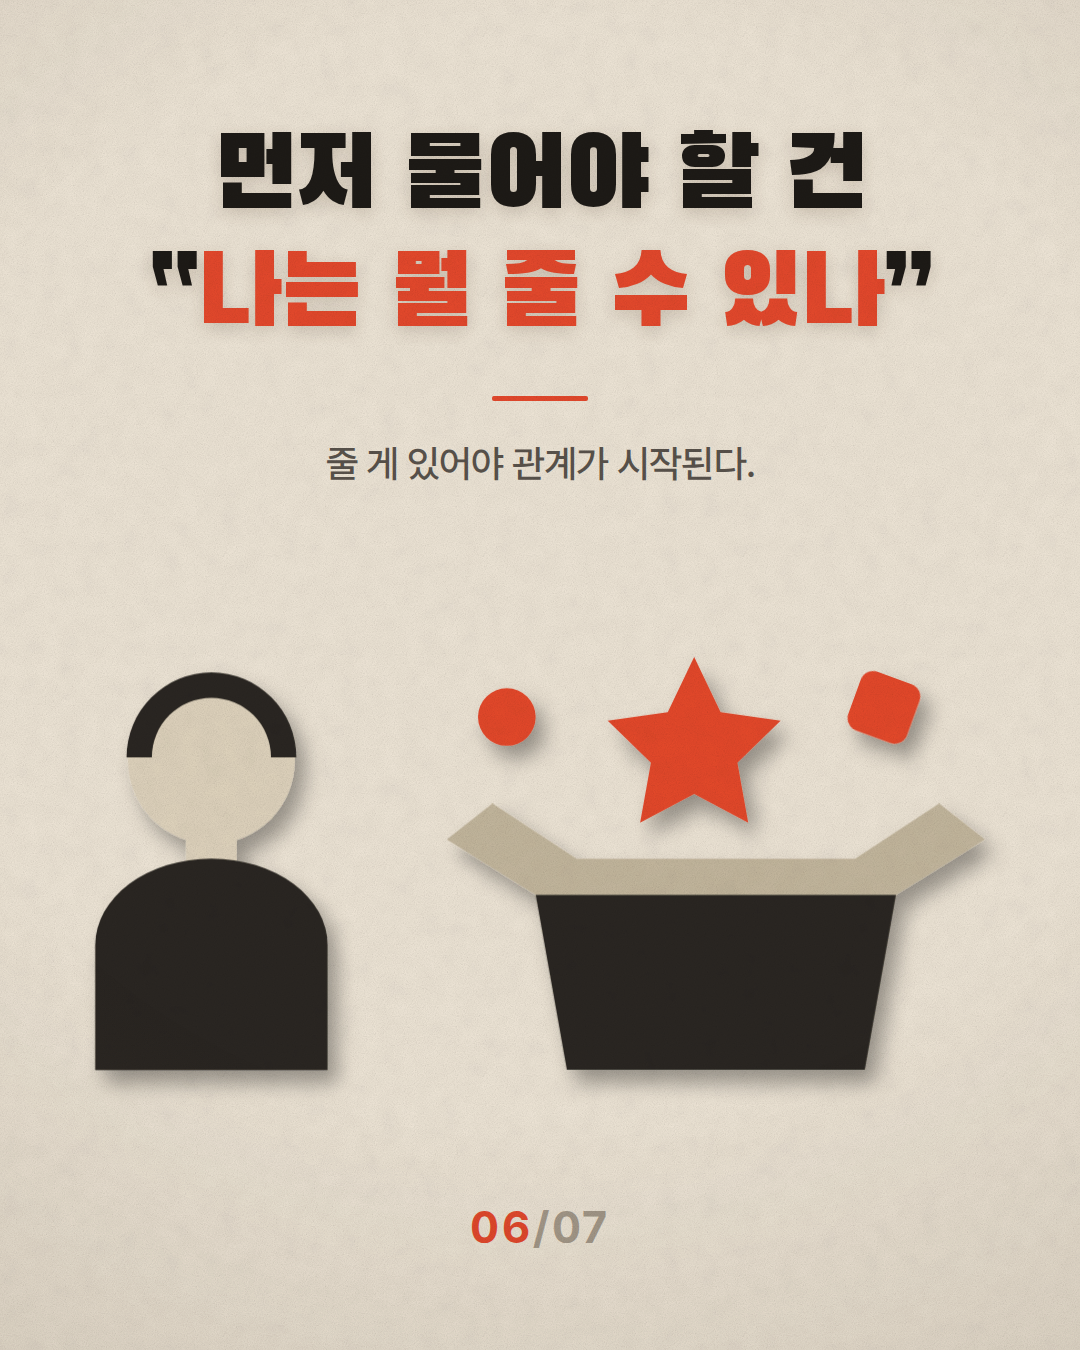
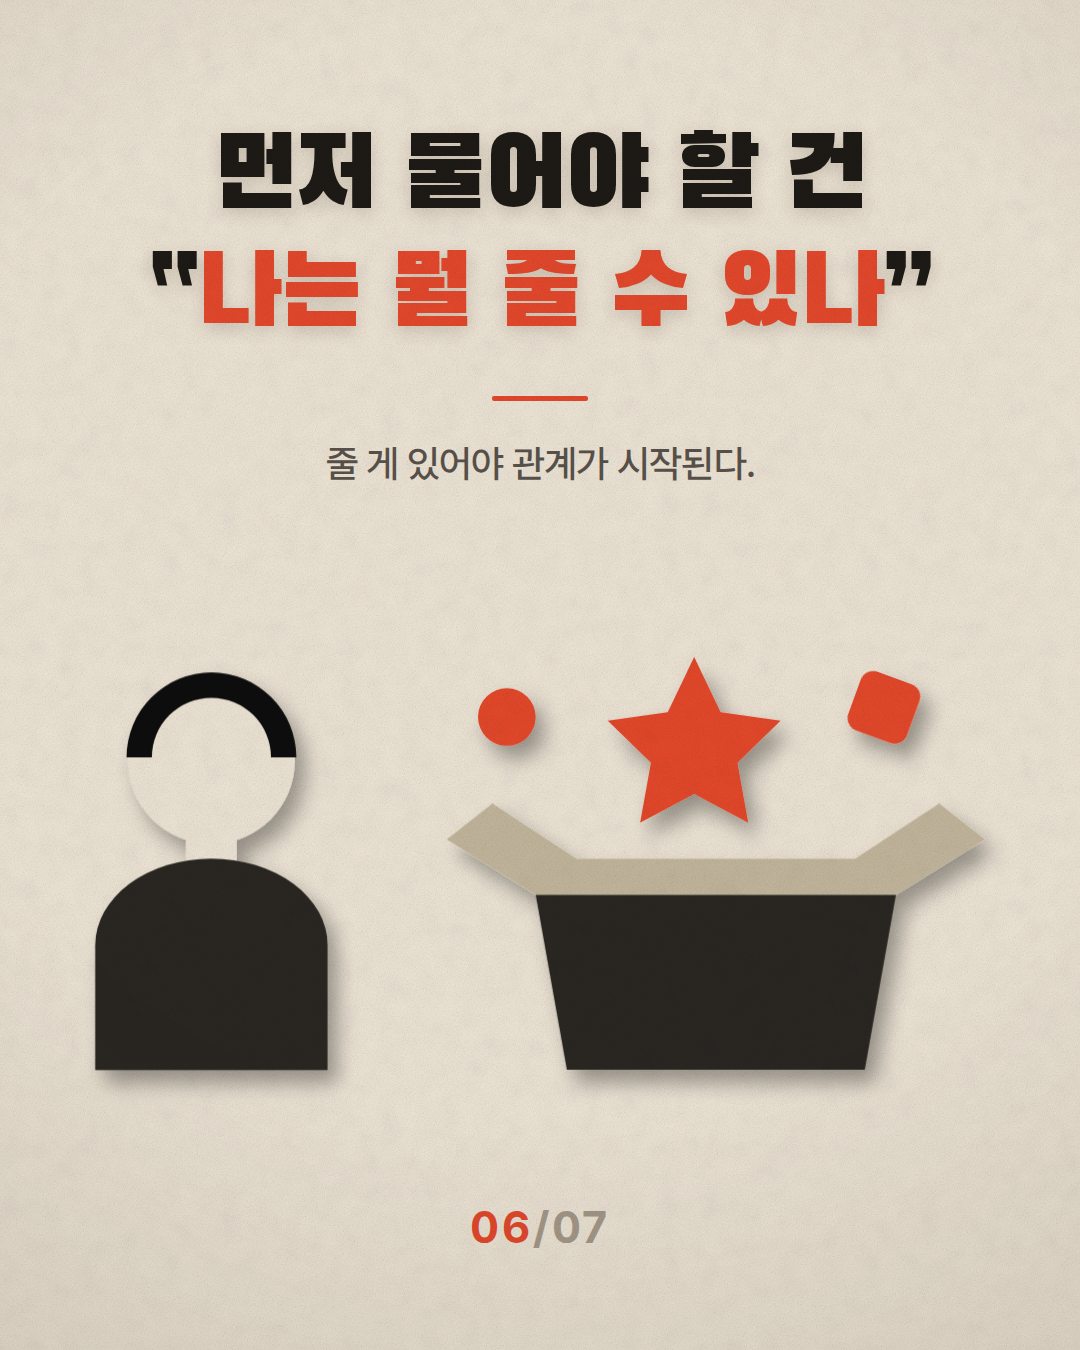
Add brainpick card set and theme-aware figure colors
- 「노하우 좀 알려주세요」 거절법 7장 원고 및 출력물
- 일러스트 5종 추가: pickBrain, askFirst, linkOut, priceTag, boundary
- 다크/크림 카드에서 실루엣이 배경에 묻히지 않도록 --figure 계열 변수 도입
- 인물 비율 조정 및 기존 세트 재렌더

Claude-Session: https://claude.ai/code/session_0196FBxeHrocYr2iVRBL3Svf

Changed region(s): [[0.1222, 0.4978, 0.275, 0.6533]]

diff --git a/cardnews/art.js b/cardnews/art.js
@@ -45,17 +45,17 @@ const folder = (x, y, w, h, fill = 'var(--red)') => `
   </g>`;
 
 /* 페이퍼컷 인물 — 머리(위) + 목 + 어깨선 몸통 */
-const person = (cx, by, s = 1, body = 'var(--coal)', skin = 'var(--paper)') => `
+const person = (cx, by, s = 1, body = 'var(--figure)', skin = 'var(--figure-skin)') => `
   <g transform="translate(${cx} ${by}) scale(${s})">
     <rect x="-17" y="-176" width="34" height="38" fill="${skin}"/>
     <path d="M-78 0 v-84 a78 58 0 0 1 156 0 V0z" fill="${body}"/>
     <circle cx="0" cy="-208" r="56" fill="${skin}"/>
-    <path d="M-57 -210 a57 57 0 0 1 114 0 l-17 0 a40 40 0 0 0 -80 0z" fill="${body}"/>
+    <path d="M-57 -210 a57 57 0 0 1 114 0 l-17 0 a40 40 0 0 0 -80 0z" fill="var(--figure-hair)"/>
   </g>`;
 
 /* 점선 실루엣 인물 (사라지는 사람) */
 const ghost = (cx, by, s = 1) => `
-  <g transform="translate(${cx} ${by}) scale(${s})" fill="none" stroke="var(--coal)"
+  <g transform="translate(${cx} ${by}) scale(${s})" fill="none" stroke="var(--figure)"
      stroke-width="11" stroke-dasharray="24 21" stroke-linecap="round" opacity=".45">
     <path d="M-78 0 v-84 a78 58 0 0 1 156 0 V0"/>
     <circle cx="0" cy="-208" r="56"/>
@@ -97,7 +97,7 @@ const ART = {
     <g filter="url(#ds2)">
       <!-- 커피를 내미는 사람 -->
       ${person(168, 580, 1)}
-      <g stroke="var(--coal)" stroke-width="28" stroke-linecap="round">
+      <g stroke="var(--figure)" stroke-width="28" stroke-linecap="round">
         <path d="M232 494 h94"/>
       </g>
       ${cup(392, 548, 0.8)}
@@ -171,7 +171,7 @@ const ART = {
         <rect x="300" y="466" width="100" height="52" rx="10" fill="var(--red)" opacity=".55"/>
       </g>
       <!-- 한 방향 화살표 (점점 흐려짐) -->
-      <g stroke="var(--coal)" fill="none" stroke-width="14" stroke-linecap="round" stroke-linejoin="round">
+      <g stroke="var(--figure)" fill="none" stroke-width="14" stroke-linecap="round" stroke-linejoin="round">
         <g opacity=".9"><path d="M700 322 h-236"/><path d="M506 296 l-42 26 l42 26"/></g>
         <g opacity=".5"><path d="M700 424 h-236"/><path d="M506 398 l-42 26 l42 26"/></g>
         <g opacity=".2"><path d="M700 526 h-236"/><path d="M506 500 l-42 26 l42 26"/></g>
@@ -236,7 +236,7 @@ const ART = {
       ${person(150, 580, 0.92)}
       ${person(750, 580, 0.92)}
       <!-- 서로 뻗은 팔 -->
-      <g stroke="var(--coal)" stroke-width="30" stroke-linecap="round">
+      <g stroke="var(--figure)" stroke-width="30" stroke-linecap="round">
         <path d="M206 498 h116"/>
         <path d="M694 498 h-116"/>
       </g>
@@ -252,6 +252,121 @@ const ART = {
         <path d="M318 588 h264"/>
         <path d="M360 562 l-42 26 l42 26"/>
         <path d="M540 562 l42 26 l-42 26"/>
+      </g>
+    </g>
+  </svg>`,
+
+  /* 08 — 머리에서 지식만 빼가려는 커피 한 잔 */
+  pickBrain: () => `
+  <svg viewBox="0 0 900 620" preserveAspectRatio="xMidYMid meet">
+    ${shadow(8)}
+    <g filter="url(#ds8)">
+      <!-- 머리 옆모습 -->
+      <circle cx="220" cy="330" r="152" fill="var(--figure)"/>
+      <rect x="150" y="466" width="140" height="114" fill="var(--figure)"/>
+      <!-- 머릿속 서류 -->
+      <g>
+        <rect x="150" y="256" width="104" height="66" rx="8" fill="var(--figure-hair)" opacity=".5"/>
+        <rect x="168" y="336" width="104" height="66" rx="8" fill="var(--figure-hair)" opacity=".3"/>
+        <rect x="246" y="292" width="104" height="66" rx="8" fill="var(--red)"/>
+      </g>
+      <!-- 빠져나가는 궤적 -->
+      <path d="M366 320 q116 -60 214 22" fill="none" stroke="var(--red)" stroke-width="11"
+            stroke-linecap="round" stroke-dasharray="4 30"/>
+      <path d="M556 306 l32 40 l-50 12" fill="none" stroke="var(--red)" stroke-width="11"
+            stroke-linecap="round" stroke-linejoin="round"/>
+      ${cup(700, 560, 1.15)}
+    </g>
+  </svg>`,
+
+  /* 09 — 되묻기 : 질문을 그대로 돌려준다 */
+  askFirst: () => `
+  <svg viewBox="0 0 900 600" preserveAspectRatio="xMidYMid meet">
+    ${shadow(9)}
+    <g filter="url(#ds9)">
+      <!-- 들어온 질문 -->
+      <g>
+        <rect x="60" y="150" width="330" height="220" rx="30" fill="var(--paper)"/>
+        <path d="M132 366 l14 74 l86 -70z" fill="var(--paper)"/>
+        <text x="225" y="304" text-anchor="middle" font-family="PT" font-weight="900"
+              font-size="150" fill="var(--coal)">?</text>
+      </g>
+      <!-- 되돌려주는 질문 -->
+      <g>
+        <rect x="470" y="228" width="374" height="238" rx="30" fill="var(--red)"/>
+        <path d="M772 462 l-16 82 l-92 -78z" fill="var(--red)"/>
+        <text x="657" y="392" text-anchor="middle" font-family="PT" font-weight="900"
+              font-size="162" fill="var(--paper)">?</text>
+      </g>
+    </g>
+  </svg>`,
+
+  /* 10 — 반복되는 질문은 자료로 넘긴다 */
+  linkOut: () => `
+  <svg viewBox="0 0 900 600" preserveAspectRatio="xMidYMid meet">
+    ${shadow(10)}
+    <g filter="url(#ds10)">
+      <!-- 쌓아둔 자료 -->
+      <g>
+        <rect x="72" y="200" width="230" height="300" rx="14" fill="var(--paper-sh)"/>
+        <rect x="102" y="170" width="230" height="300" rx="14" fill="var(--paper)"/>
+        <g fill="var(--coal)" opacity=".8">
+          <rect x="140" y="216" width="154" height="16" rx="8"/>
+          <rect x="140" y="256" width="120" height="16" rx="8"/>
+          <rect x="140" y="296" width="146" height="16" rx="8"/>
+          <rect x="140" y="336" width="96" height="16" rx="8"/>
+        </g>
+        <rect x="102" y="170" width="230" height="34" rx="14" fill="var(--red)"/>
+      </g>
+      <!-- 링크로 전달 -->
+      <g stroke="var(--red)" stroke-width="15" fill="none" stroke-linecap="round" stroke-linejoin="round">
+        <path d="M392 322 h214"/>
+        <path d="M560 282 l46 40 l-46 40"/>
+      </g>
+      ${person(760, 500, 0.98)}
+    </g>
+  </svg>`,
+
+  /* 11 — 값을 매기면 진짜 필요한 사람만 남는다 */
+  priceTag: () => `
+  <svg viewBox="0 0 900 620" preserveAspectRatio="xMidYMid meet">
+    ${shadow(11)}
+    <g filter="url(#ds11)">
+      <!-- 시간 -->
+      <circle cx="256" cy="330" r="150" fill="none" stroke="var(--figure)" stroke-width="26"/>
+      <g stroke="var(--figure)" stroke-width="22" stroke-linecap="round">
+        <path d="M256 240 v96"/>
+        <path d="M256 336 l68 40"/>
+      </g>
+      <!-- 가격표 -->
+      <g transform="rotate(-12 620 340)">
+        <path d="M470 226 h250 a30 30 0 0 1 30 30 v168 a30 30 0 0 1 -30 30 h-250 l-92 -114z" fill="var(--red)"/>
+        <circle cx="452" cy="340" r="30" fill="var(--paper)"/>
+        <g fill="var(--paper)">
+          <rect x="512" y="292" width="190" height="22" rx="11"/>
+          <rect x="512" y="342" width="140" height="22" rx="11"/>
+        </g>
+      </g>
+    </g>
+  </svg>`,
+
+  /* 12 — 경계를 사이에 둔 관계 */
+  boundary: () => `
+  <svg viewBox="0 0 900 620" preserveAspectRatio="xMidYMid meet">
+    ${shadow(12)}
+    <g filter="url(#ds12)">
+      ${person(190, 580, 1)}
+      ${person(710, 580, 1)}
+      <!-- 가운데 경계선 -->
+      <path d="M450 190 V580" stroke="var(--red)" stroke-width="14"
+            stroke-linecap="round" stroke-dasharray="30 26"/>
+      <!-- 경계를 넘어 이어지는 악수 -->
+      <g stroke="var(--figure)" stroke-width="30" stroke-linecap="round">
+        <path d="M252 486 h130"/>
+        <path d="M648 486 h-130"/>
+      </g>
+      <g>
+        <rect x="378" y="452" width="144" height="68" rx="22" fill="var(--red)"/>
       </g>
     </g>
   </svg>`,

diff --git a/cardnews/sets/brainpick.js b/cardnews/sets/brainpick.js
@@ -1,0 +1,50 @@
+/* ===================================================================
+   카드셀 원고 — 「노하우 좀 알려주세요」 거절법 (7장)
+
+   출처 참고 : Marie Forleo, "How To Say No To People Who Want To
+   Pick Your Brain" (2013) 의 문제의식과 접근을 참고했다.
+   원문 스크립트를 옮긴 것이 아니라 한국어로 새로 쓴 문구다.
+   =================================================================== */
+
+window.CARD_SET = {
+  name: 'brainpick',
+  ratio: [1080, 1350],
+  cards: [
+    {
+      theme: 'dark', layout: 'cover', art: 'pickBrain',
+      lines: ['“커피 한 잔 살게요', '<em>노하우</em> 좀 알려주세요”'],
+      sub: '거절해도 되는 부탁입니다',
+    },
+    {
+      theme: 'cream', layout: 'standard', art: 'scale',
+      lines: ['커피값 오천 원이', '<em>몇 년치 시행착오</em>보다 쌀까'],
+      sub: '묻는 건 공짜지만, 답은 공짜가 아니다.',
+    },
+    {
+      theme: 'dark', layout: 'standard', art: 'hourglass',
+      lines: ['거절이 어려운 건', '<em>나쁜 사람</em>이 될까 봐다'],
+      sub: '그렇게 미루는 동안 내 시간이 먼저 사라진다.',
+    },
+    {
+      theme: 'cream', layout: 'tick', art: 'askFirst',
+      lines: ['하나. 만나기 전에 되묻는다', '“정확히 <em>뭐가 궁금하세요?</em>”'],
+      sub: '용건을 먼저 물으면 절반은 여기서 정리된다.',
+    },
+    {
+      theme: 'dark', layout: 'tick', art: 'linkOut',
+      lines: ['둘. 자료로 돌린다', '“그건 <em>여기 정리해 뒀어요</em>”'],
+      sub: '반복되는 질문은 콘텐츠로 만들어 링크만 보낸다.',
+    },
+    {
+      theme: 'cream', layout: 'tick', art: 'priceTag',
+      lines: ['셋. 값을 매긴다', '“제대로 보려면 <em>상담으로</em>”'],
+      sub: '값을 붙이는 순간 진짜 필요한 사람만 남는다.',
+    },
+    {
+      theme: 'dark', layout: 'standard', art: 'boundary',
+      lines: ['거절은 관계를 끊는 게 아니라', '<em>기준</em>을 알려주는 것이다'],
+      sub: '기준이 있는 사람에게 사람이 모인다.',
+      sign: '위코컴퍼니',
+    },
+  ],
+};

diff --git a/cardnews/style.css b/cardnews/style.css
@@ -39,6 +39,9 @@ body{
   --paper-sh:#c9bda6;   /* 일러스트 밝은 면 그림자 */
   --coal:#0f0d0a;
   --red-sh:#b8371f;
+  --figure:#e7dbc6;       /* 배경 위에서 읽히는 실루엣 색 */
+  --figure-skin:#cfc2aa;
+  --figure-hair:#1a1712;
   background:var(--bg);
 }
 
@@ -53,6 +56,9 @@ body{
   --paper-sh:#c6b99f;
   --coal:#2a2621;
   --red-sh:#bb3319;
+  --figure:#2a2621;
+  --figure-skin:#f1e8d9;
+  --figure-hair:#0f0d0a;
   background:var(--bg);
 }
 

diff --git a/cardnews/README.md b/cardnews/README.md
@@ -46,6 +46,13 @@ npx http-server . -p 8080     # http://localhost:8080/cardnews/?set=networking
 - 헤드라인은 **줄 단위로 직접 끊는다.** 가로폭을 넘으면 자동으로 글자 크기가 줄어든다.
 - 장수는 `cards` 배열 길이대로 잡히고 `01/07` 표기도 자동 계산된다.
 
+## 지금 들어 있는 원고
+
+| 세트 | 내용 |
+|---|---|
+| `networking` | 네트워킹을 착각하는 사람들 (7장) |
+| `brainpick` | "노하우 좀 알려주세요" 거절법 (7장) |
+
 ## 새 카드셀 만들기
 
 1. `cardnews/sets/새이름.js` 를 만들고 `window.CARD_SET = { ... }` 작성
@@ -60,6 +67,12 @@ npx http-server . -p 8080     # http://localhost:8080/cardnews/?set=networking
 
 재사용 부품: `cup()` 커피잔 · `book()` 책 · `folder()` 폴더 ·
 `person()` 인물 · `ghost()` 점선 인물
+
+**색 고르는 기준**
+- `--figure` : 배경 위에 바로 놓이는 실루엣·팔·화살표 (다크=크림 / 크림=차콜, 자동 반전)
+- `--paper` `--paper-sh` : 종이·컵·서류 같은 밝은 오브젝트
+- `--coal` : 밝은 오브젝트 **위에** 얹는 글자와 아이콘 (양쪽 테마 모두 어두운 색)
+- `--red` `--red-sh` : 포인트
 
 ## 폰트
 
